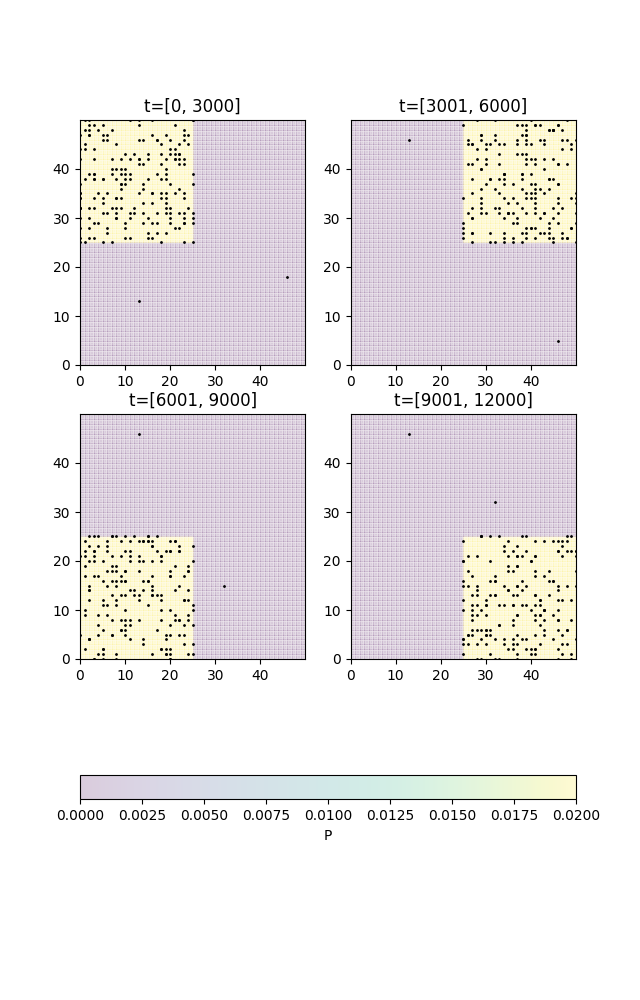
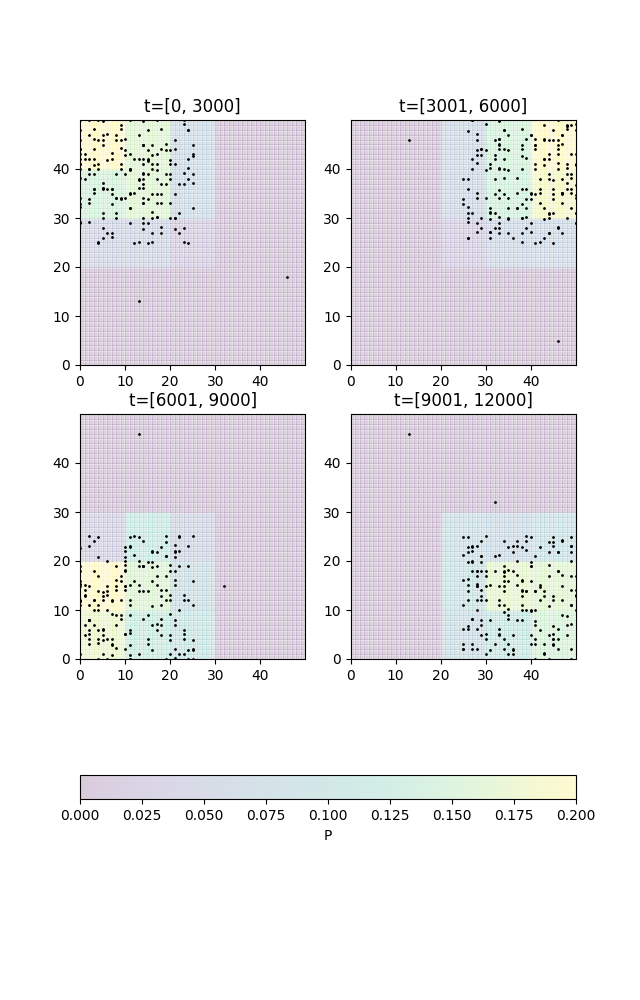
Actually count the probability of point lying in the region and color grpah
- Earlier dummy probabilities were added for the distribution
- Now actual probability that point is in the 10*10 region is calculated and graph colored accordingly

diff --git a/create_plots.py b/create_plots.py
@@ -8,7 +8,7 @@ from scipy.cluster.hierarchy import dendrogram
 from sklearn.cluster import AgglomerativeClustering
 
 
-def createDataset(xstart, xend, ystart, yend):
+def createDataset(xstart, xend, ystart, yend, addNoise=False):
     x = []
     y = []
     p = [[0.00 for _ in range(0, 50)] for _ in range(0, 50)]
@@ -19,16 +19,31 @@ def createDataset(xstart, xend, ystart, yend):
 
     for j in range(0, 200):
         y.append(random.randint(ystart, yend))
-
-    for i in range(ystart, yend):
-        for j in range(xstart, xend):
-            p[i][j] = 0.025
-
+    
+    buckets = [[0 for _ in range(5)] for _ in range(5)]
+    
+    for x_e, y_e in zip(x, y):
+        i = (x_e // 10)
+        j = (y_e // 10)
+        if i >= 5:
+            i = 4
+        if j >= 5:
+            j = 4
+        buckets[i][j] += 1
+    
+    for i in range(len(p)):
+        for j in range(len(p[0])):
+            prob = buckets[i // 10][j // 10]  / 200.0
+            p[j][i] = prob
 
     x = np.array(x)
     y = np.array(y)
     p = np.array(p)
     
+    if addNoise:
+        mu, sigma = 0, 0.1
+        noise = np.random.normal(mu, sigma, y.shape)
+        y = y + noise
     return x, y, p
 
 
@@ -54,7 +69,7 @@ z2 = []
 majorTicks = np.arange(0, 50, 10)
 fig, axs = plt.subplots(2, 2)
 
-x, y, p = createDataset(0, 25, 25, 50)
+x, y, p = createDataset(0, 25, 25, 50, addNoise=True)
 x[198] = 13
 x[199] = 46
 y[198] = 13
@@ -63,7 +78,7 @@ sp = createSubPlot(0, 0, x, y, p, 't=[0, 3000]', majorTicks)
 x2.extend(x)
 y2.extend(y)
 
-x, y, p = createDataset(25, 50, 25, 50)
+x, y, p = createDataset(25, 50, 25, 50, addNoise=True)
 x[198] = 13
 x[199] = 46
 y[198] = 46
@@ -72,7 +87,7 @@ sp = createSubPlot(0, 1, x, y, p, 't=[3001, 6000]', majorTicks)
 x2.extend(x)
 y2.extend(y)
 
-x, y, p = createDataset(0, 25, 0, 25)
+x, y, p = createDataset(0, 25, 0, 25, addNoise=True)
 x[198] = 13
 x[199] = 32
 y[198] = 46
@@ -81,7 +96,7 @@ sp = createSubPlot(1, 0, x, y, p, 't=[6001, 9000]', majorTicks)
 x2.extend(x)
 y2.extend(y)
 
-x, y, p = createDataset(25, 50, 0, 25)
+x, y, p = createDataset(25, 50, 0, 25, addNoise=True)
 x[198] = 13
 x[199] = 32
 y[198] = 46
@@ -91,7 +106,7 @@ x2.extend(x)
 y2.extend(y)
 
 cb = fig.colorbar(sp, label='P', ax=axs.ravel().tolist(), orientation="horizontal")
-sp.set_clim(0.00, 0.02)
+sp.set_clim(0.00, 0.2)
 fig.set_figheight(10)
 plt.savefig('part_a.png')
 plt.clf()
